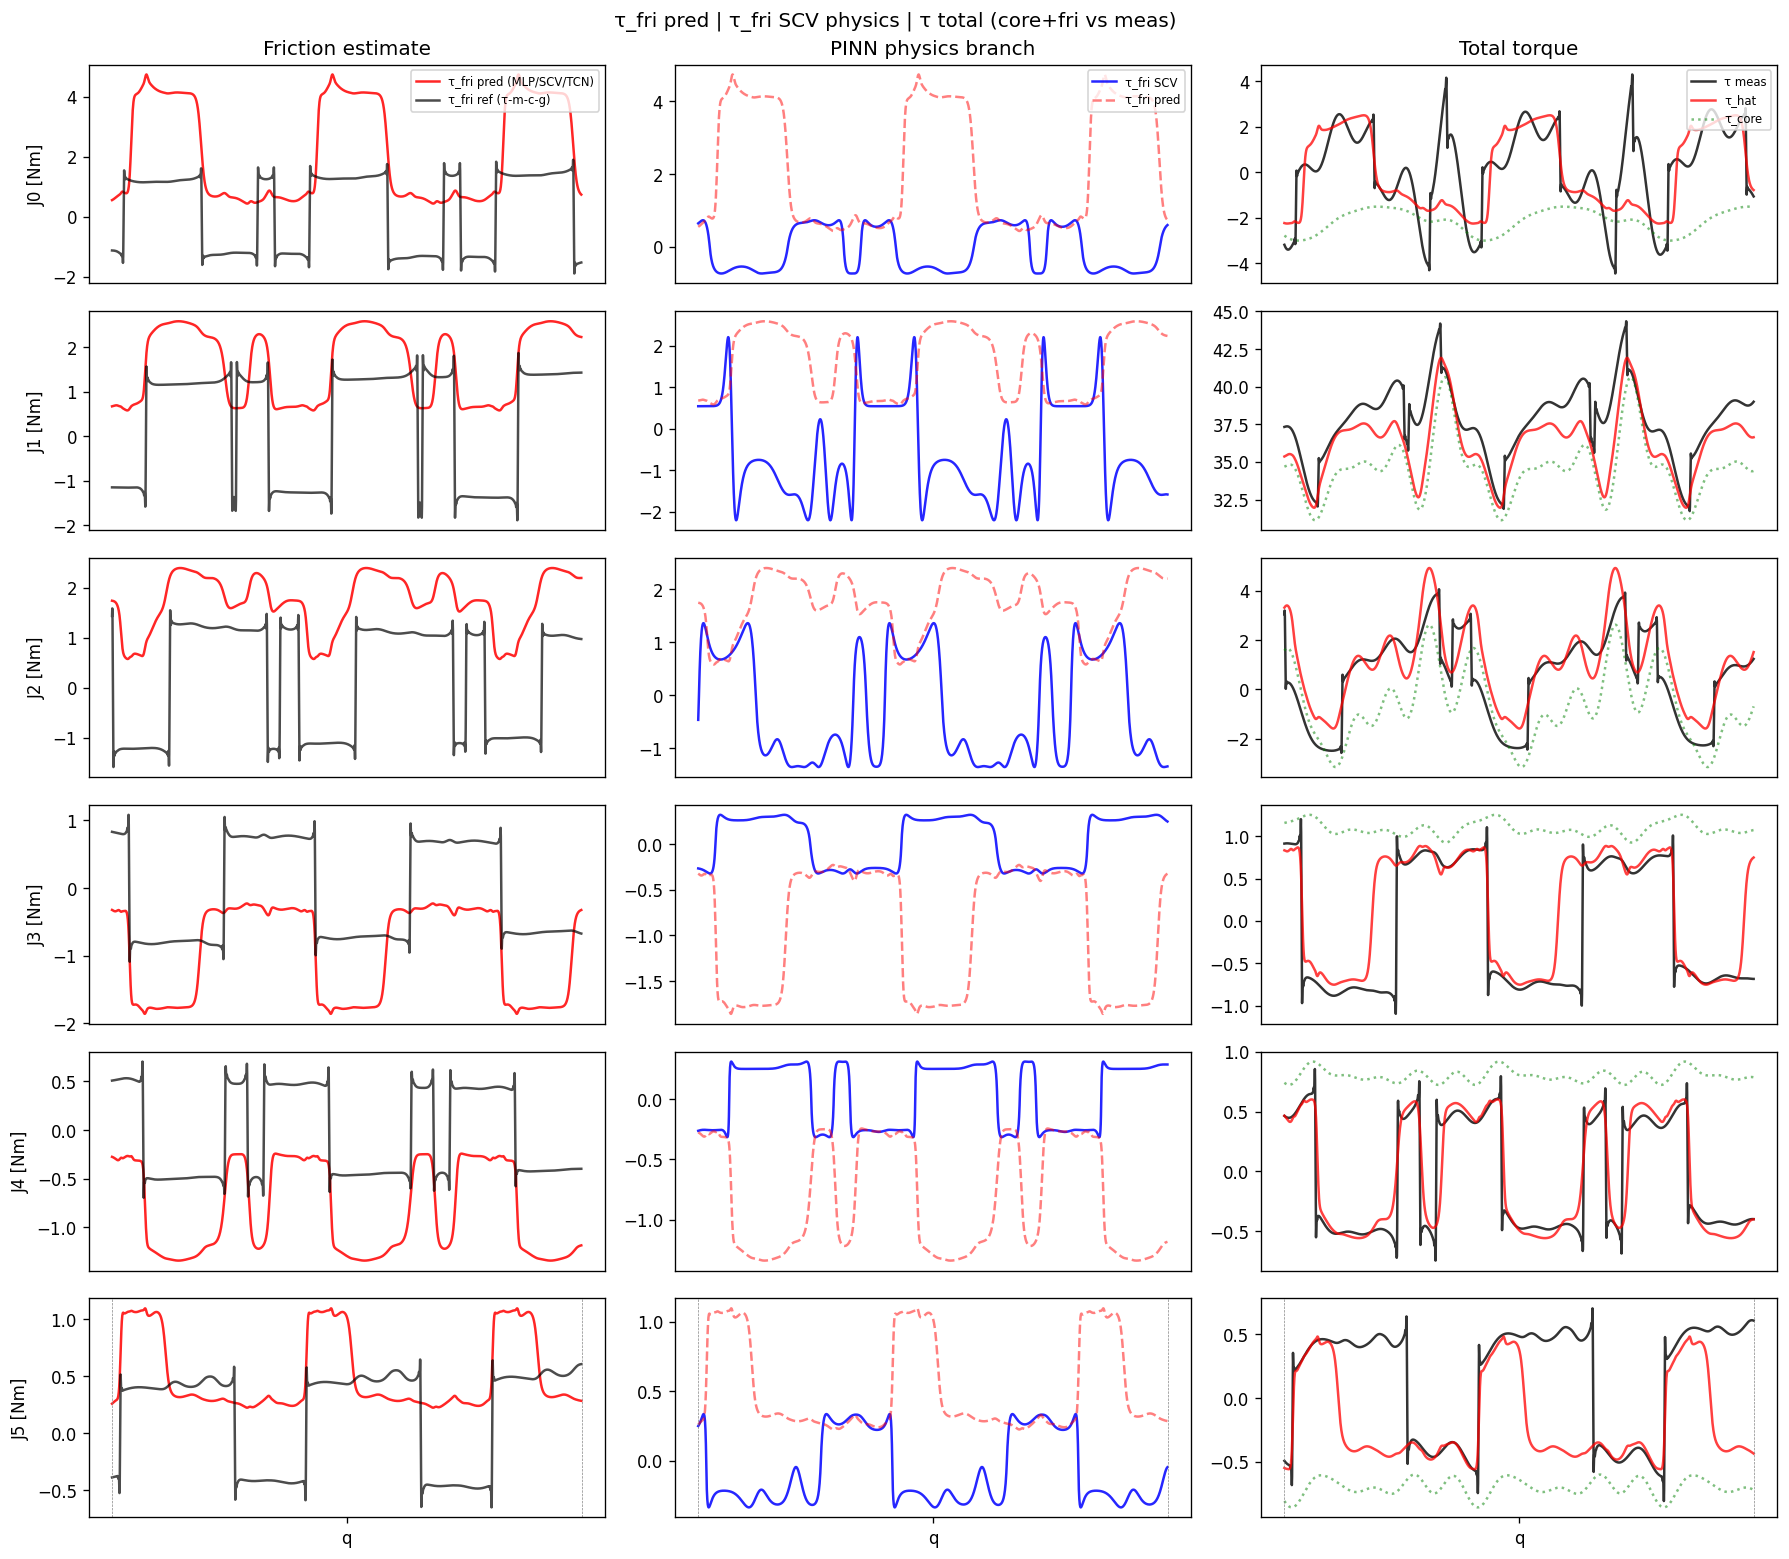
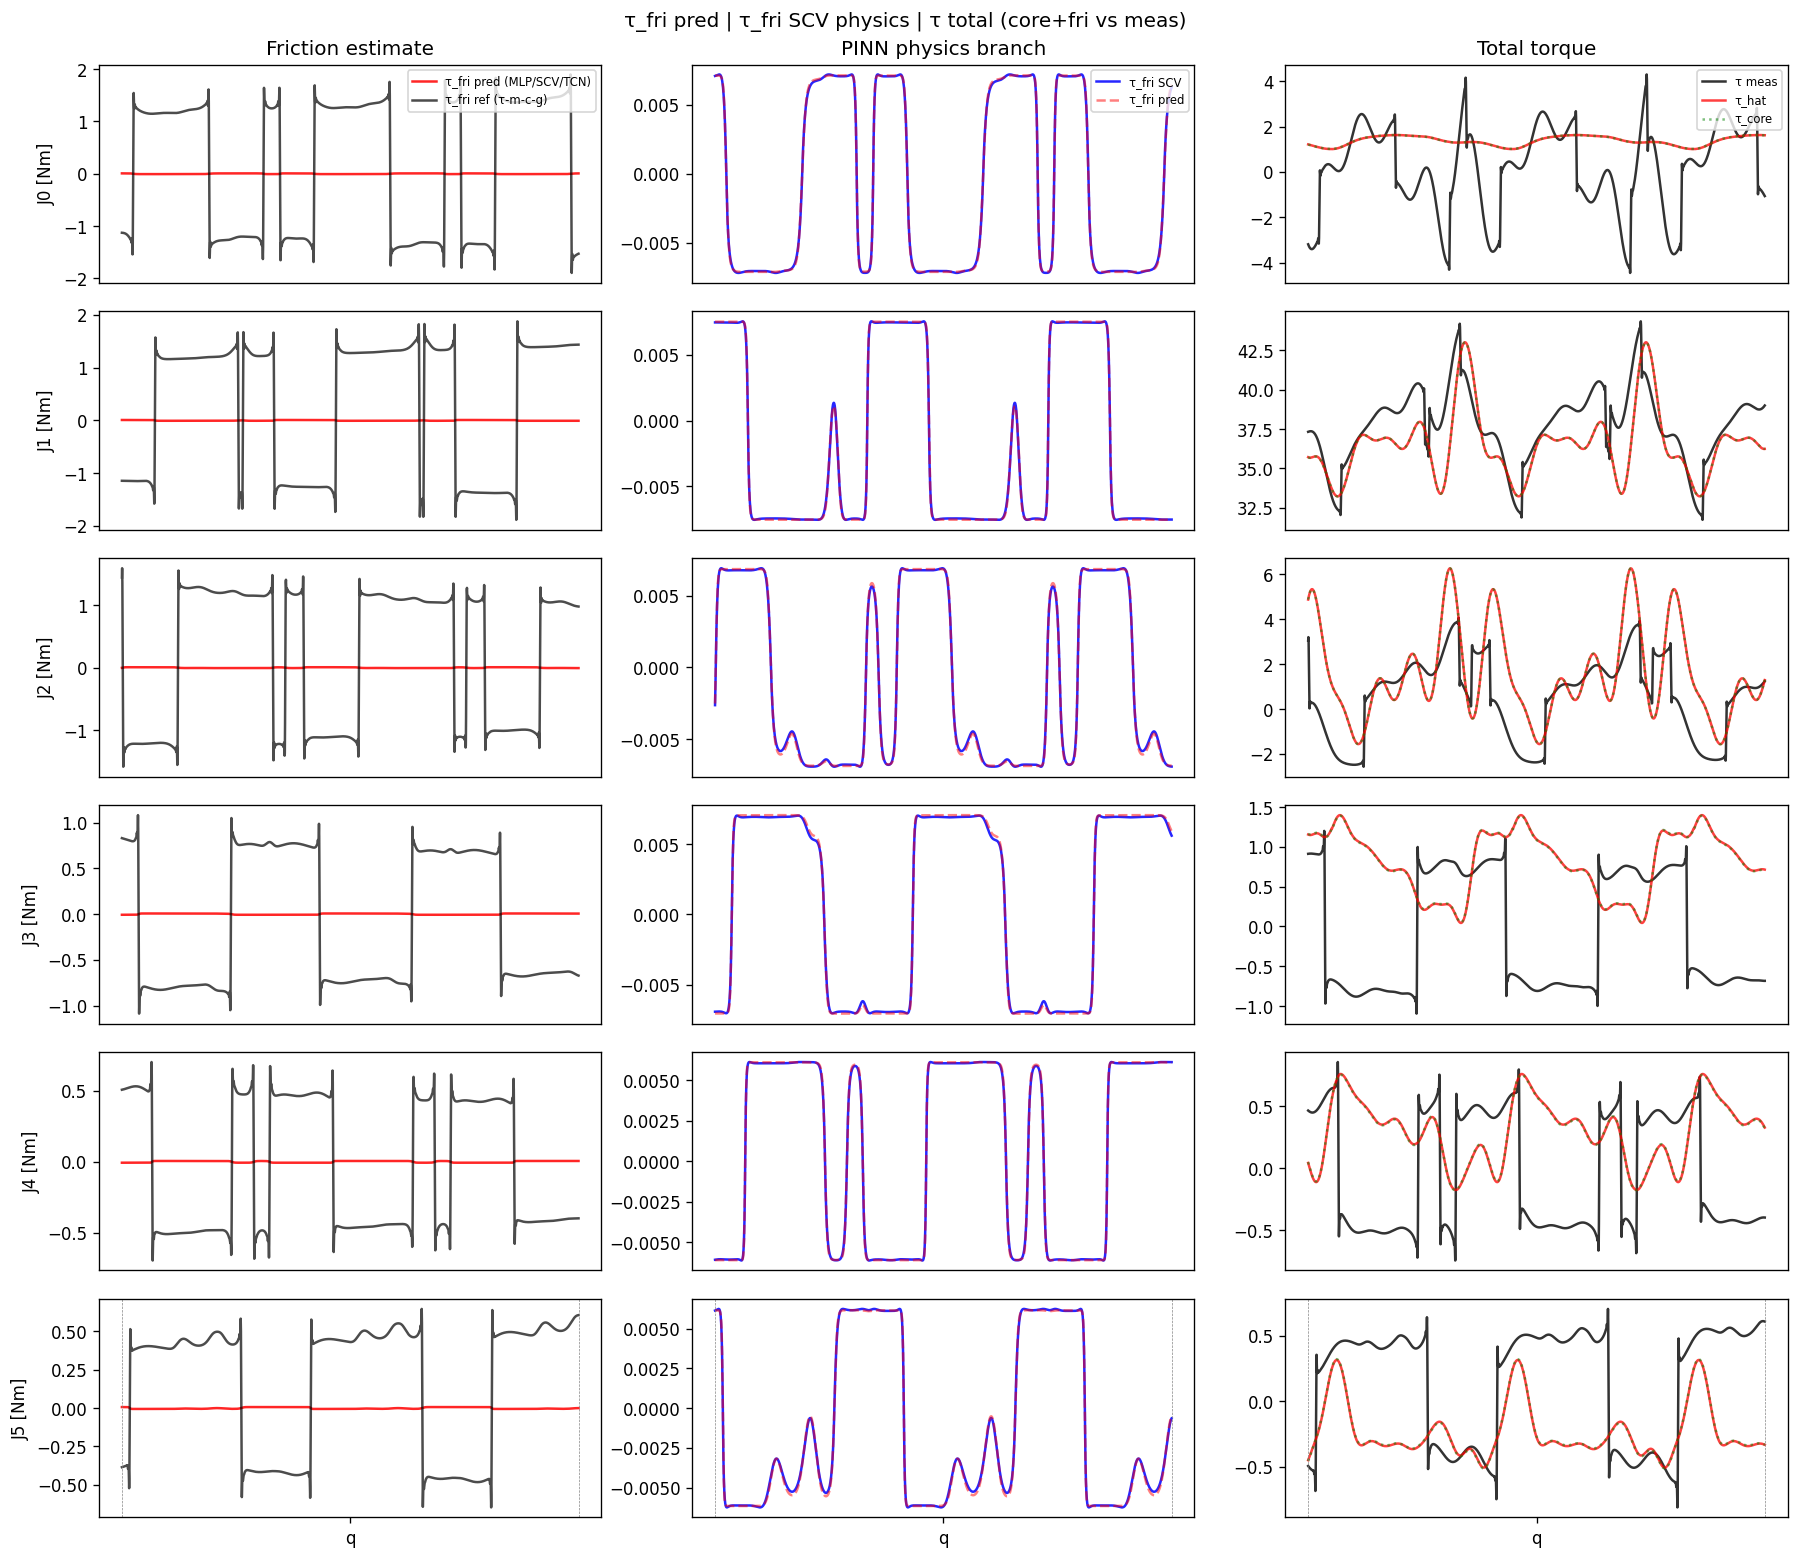
修改摩擦初值，避免学习太慢

diff --git a/RobotDynamics/FrictionModule/stribeck.py b/RobotDynamics/FrictionModule/stribeck.py
@@ -38,6 +38,16 @@ def _init_log_positive(target: float, floor: float = _POS_FLOOR) -> float:
     return _scalar_positive_inv(target, floor=floor)
 
 
+_SCV_DEFAULTS = {
+    "k_v": 0.1,
+    "k_c": 2.0,
+    "k_a": 10.0,
+    "delta_k_s": 0.1,
+    "v_s": 0.05,
+    "alpha": 1.5,
+}
+
+
 class StribeckSCVParams(nn.Module):
     """
     每关节可学习 SCV 参数。
@@ -46,15 +56,19 @@ class StribeckSCVParams(nn.Module):
     故 **k_s = k_c + Δk_s ≥ k_c** 在参数化上恒成立。
     """
 
-    def __init__(self, dof: int, *, init_v_s: float = 0.05, init_alpha: float = 1.5) -> None:
+    def __init__(self, dof: int, *, init_v_s: float | None = None, init_alpha: float | None = None) -> None:
         super().__init__()
         self.dof = dof
-        self.log_k_v = nn.Parameter(torch.full((dof,), _init_log_positive(0.01)))
-        self.log_k_c = nn.Parameter(torch.full((dof,), _init_log_positive(0.1)))
-        self.log_k_a = nn.Parameter(torch.full((dof,), _init_log_positive(10.0)))
-        self.log_delta_k_s = nn.Parameter(torch.full((dof,), _init_log_positive(0.05)))
-        self.log_v_s = nn.Parameter(torch.full((dof,), _init_log_positive(init_v_s)))
-        self.log_alpha = nn.Parameter(torch.full((dof,), _init_log_positive(init_alpha)))
+        v_s0 = _SCV_DEFAULTS["v_s"] if init_v_s is None else init_v_s
+        alpha0 = _SCV_DEFAULTS["alpha"] if init_alpha is None else init_alpha
+        self.log_k_v = nn.Parameter(torch.full((dof,), _init_log_positive(_SCV_DEFAULTS["k_v"])))
+        self.log_k_c = nn.Parameter(torch.full((dof,), _init_log_positive(_SCV_DEFAULTS["k_c"])))
+        self.log_k_a = nn.Parameter(torch.full((dof,), _init_log_positive(_SCV_DEFAULTS["k_a"])))
+        self.log_delta_k_s = nn.Parameter(
+            torch.full((dof,), _init_log_positive(_SCV_DEFAULTS["delta_k_s"]))
+        )
+        self.log_v_s = nn.Parameter(torch.full((dof,), _init_log_positive(v_s0)))
+        self.log_alpha = nn.Parameter(torch.full((dof,), _init_log_positive(alpha0)))
 
     def positive_coefficients(self) -> dict[str, torch.Tensor]:
         """返回正参数 dict：k_v, k_c, k_a, k_s, v_s, alpha（每关节 1D）。"""
@@ -108,15 +122,25 @@ def warmstart_scv_from_samples(
     tau_fri: torch.Tensor,
     *,
     qd_min: float = 0.02,
+    qd_viscous_min: float = 0.15,
     k_c_floor: float = 0.05,
-    k_s_margin: float = 0.05,
-) -> None:
-    """用 ``median(|τ_fri|)``（``|q̇|>qd_min``）粗估 ``k_c`` 与 ``k_s = k_c + margin``。"""
+    k_s_margin_frac: float = 0.05,
+    k_v_frac_of_kc: float = 0.05,
+    k_v_floor: float = 1e-4,
+) -> int:
+    """
+    用训练样本粗估 SCV：``k_c ≈ median(|τ_fri|)``（``|q̇|>qd_min``），
+    ``Δk_s = max(5%·k_c, 0.02)``，``k_v`` 由高速段 ``|τ_fri/q̇|`` 上限截断。
+
+    Returns:
+        成功初始化参数的关节数。
+    """
     if qd.shape != tau_fri.shape or qd.ndim != 2:
         raise ValueError(f"qd {qd.shape} 与 tau_fri {tau_fri.shape} 须同为 (N, dof)")
     dof = scv.dof
     if qd.shape[1] != dof:
         raise ValueError(f"Expected dof {dof}, got qd {qd.shape[1]}")
+    n_set = 0
     with torch.no_grad():
         for j in range(dof):
             mask = qd[:, j].abs() > qd_min
@@ -124,7 +148,19 @@ def warmstart_scv_from_samples(
                 continue
             est = float(tau_fri[mask, j].abs().median().clamp(min=k_c_floor))
             scv.log_k_c[j] = _scalar_positive_inv(est)
-            scv.log_delta_k_s[j] = _scalar_positive_inv(k_s_margin)
+            margin = max(est * k_s_margin_frac, 0.02)
+            scv.log_delta_k_s[j] = _scalar_positive_inv(margin)
+
+            mask_v = qd[:, j].abs() > qd_viscous_min
+            if int(mask_v.sum()) >= 8:
+                kv = float(
+                    (tau_fri[mask_v, j].abs() / qd[mask_v, j].abs())
+                    .median()
+                    .clamp(min=k_v_floor, max=est * max(k_v_frac_of_kc, 0.01))
+                )
+                scv.log_k_v[j] = _scalar_positive_inv(kv)
+            n_set += 1
+    return n_set
 
 
 def cv_torque(

diff --git a/tests/test_stribeck.py b/tests/test_stribeck.py
@@ -3,7 +3,26 @@
 import torch
 
 from RobotDynamics.FrictionModule import HNetStribeck, HNetStribeckPINN, StribeckSCVParams, scv_torque
-from RobotDynamics.FrictionModule.stribeck import _init_log_positive
+from RobotDynamics.FrictionModule.stribeck import _init_log_positive, warmstart_scv_from_samples
+
+
+def test_scv_default_scale() -> None:
+    scv = StribeckSCVParams(6)
+    c = scv.positive_coefficients()
+    assert float(c["k_c"].median()) >= 1.5
+    assert float(c["k_s"].median()) >= float(c["k_c"].median())
+
+
+def test_warmstart_scv_from_samples() -> None:
+    scv = StribeckSCVParams(2)
+    torch.manual_seed(0)
+    qd = torch.randn(16, 2) * 0.5
+    tau = qd * 2.0 + 0.1 * torch.randn(16, 2)
+    n = warmstart_scv_from_samples(scv, qd, tau)
+    assert n == 2
+    c = scv.positive_coefficients()
+    assert torch.all(c["k_s"] >= c["k_c"] - 1e-9)
+    assert float(c["k_c"].min()) > 0.05
 
 
 def test_scv_k_s_ge_k_c() -> None:

diff --git a/examples/robot_train.py b/examples/robot_train.py
@@ -51,6 +51,7 @@ from RobotDynamics.FrictionModule import (
 from RobotDynamics.MystericNet import MystericNet
 
 PHYSICS_ONLY_FRICTION = frozenset({"stribeck", "gms"})
+SCV_FRICTION_BACKENDS = frozenset({"stribeck", "stribeck_pinn", "fo_cascade_pinn"})
 TrainPhase = Literal["joint", "lnet", "friction"]
 
 
@@ -627,12 +628,19 @@ def main() -> None:
         if args.friction_backend == "stribeck":
             if args.fri_loss == "smape" and eff_fri == "mse":
                 print("  提示: stribeck 下 SMAPE 对 l_fri 易饱和≈2，已自动改用 fri_loss=mse。")
-            if hasattr(model.hnet, "scv"):
-                n_init = min(4096, qdi.shape[0])
-                warmstart_scv_from_samples(
-                    model.hnet.scv, qdi[:n_init], tau_fri_t[:n_init]
-                )
-                print(f"  已 warm-start SCV（k_c/k_s，N={n_init}）。")
+
+        if args.friction_backend in SCV_FRICTION_BACKENDS and hasattr(model.hnet, "scv"):
+            n_init = min(4096, qdi.shape[0])
+            n_joints = warmstart_scv_from_samples(
+                model.hnet.scv, qdi[:n_init], tau_fri_t[:n_init]
+            )
+            c = model.hnet.scv.positive_coefficients()
+            print(
+                f"  已 warm-start SCV（{n_joints}/{n_dof} 关节，N={n_init}）："
+                f"k_c≈{float(c['k_c'].median()):.3g}  "
+                f"k_s≈{float(c['k_s'].median()):.3g}  "
+                f"k_v≈{float(c['k_v'].median()):.3g}"
+            )
 
     stage1_ep, stage2_ep, stage3_ep, total_ep = _resolve_stage_epochs(args)
     args._stage1_epochs = stage1_ep

diff --git a/RobotDynamics/FrictionModule/readme.md b/RobotDynamics/FrictionModule/readme.md
@@ -114,10 +114,10 @@ $$
 
 | 参数 | 默认初值（约） | 含义 |
 |------|----------------|------|
-| $k_v$ | 0.01 | 粘性 |
-| $k_c$ | 0.1 | 库仑 |
+| $k_v$ | 0.1 | 粘性 |
+| $k_c$ | 2.0 | 库仑（6 轴 `robot_fric` 量级；新训练自动 warm-start 会按数据覆盖） |
 | $k_a$ | 10 | $\tanh$ 在零速附近的陡度 |
-| $\Delta k_s$ | 0.05 → $k_s=k_c+\Delta k_s\approx 0.15$ | Stribeck 静摩擦超额（相对 $k_c$） |
+| $\Delta k_s$ | 0.1 → $k_s=k_c+\Delta k_s\approx 2.1$ | Stribeck 静摩擦超额 |
 | $v_s$ | 0.05 | Stribeck 特征速度 |
 | $\alpha$ | 1.5 | Stribeck 曲线指数 |
 